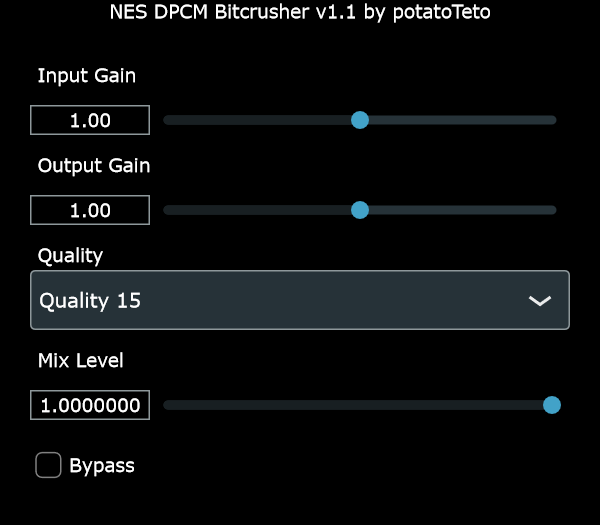
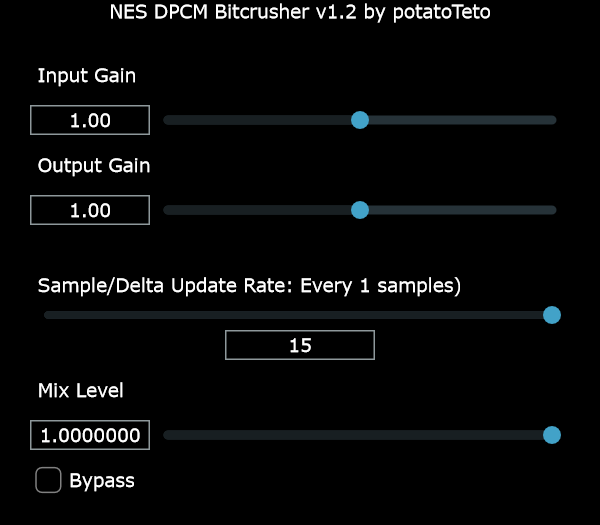
update: Quality renamed to Sample/Delta Update Rate and changed to a slider

diff --git a/Source/PluginEditor.cpp b/Source/PluginEditor.cpp
@@ -7,8 +7,8 @@ DPCMBitcrusherAudioProcessorEditor::DPCMBitcrusherAudioProcessorEditor(DPCMBitcr
         apvts, "inputGain", _inputGainSlider);
     _outputGainAttachment = std::make_unique<juce::AudioProcessorValueTreeState::SliderAttachment>(
         apvts, "gain", _outputGainSlider);
-    _qualityAttachment = std::make_unique<juce::AudioProcessorValueTreeState::ComboBoxAttachment>(
-        apvts, "quality", _qualityComboBox);
+    _sampleUpdateRateAttachment = std::make_unique<juce::AudioProcessorValueTreeState::SliderAttachment>(
+        apvts, "sampleUpdateRate", _sampleUpdateRateSlider);
     _bypassAttachment = std::make_unique<juce::AudioProcessorValueTreeState::ButtonAttachment>(
         apvts, "bypass", _bypassToggle);
 
@@ -26,20 +26,28 @@ DPCMBitcrusherAudioProcessorEditor::DPCMBitcrusherAudioProcessorEditor(DPCMBitcr
     _mixLabel.setText("Mix Level", juce::dontSendNotification);
     addAndMakeVisible(_mixLabel);
 
-    // Add ComboBox IDs 0..15 to exactly match quality parameter values
-    for (int i = 0; i <= 15; ++i)
-        _qualityComboBox.addItem("Quality " + juce::String(i), i + 1);
+    // Add sampleUpdateRate slider that snaps to integers
+    _sampleUpdateRateSlider.setSliderStyle(juce::Slider::LinearHorizontal);
+    _sampleUpdateRateSlider.setTextBoxStyle(juce::Slider::TextBoxBelow, false, 100, 20);
+    _sampleUpdateRateSlider.setRange(0, 15, 1); // Snap to integers
+    _sampleUpdateRateSlider.setValue(15); // Default value
+    _sampleUpdateRateSlider.setNumDecimalPlacesToDisplay(0);
 
-    // Create attachment (syncs ComboBox with parameter)
-    _qualityAttachment = std::make_unique<juce::AudioProcessorValueTreeState::ComboBoxAttachment>(
-        apvts, "quality", _qualityComboBox);
-    
-    // Force ComboBox refresh (optional but can fix display issues)
-    _qualityComboBox.setSelectedId(_qualityComboBox.getSelectedId(), juce::dontSendNotification);
+    addAndMakeVisible(_sampleUpdateRateSlider);
+    _sampleUpdateRateLabel.setText("Sample/Delta Update Rate", juce::dontSendNotification);
+    addAndMakeVisible(_sampleUpdateRateLabel);
 
-    addAndMakeVisible(_qualityComboBox);
-    _qualityLabel.setText("Quality", juce::dontSendNotification);
-    addAndMakeVisible(_qualityLabel);
+    _sampleUpdateRateAttachment = std::make_unique<juce::AudioProcessorValueTreeState::SliderAttachment>(
+        apvts, "sampleUpdateRate", _sampleUpdateRateSlider);
+
+    // Dynamically update the label with stepInterval
+    _sampleUpdateRateSlider.onValueChange = [this]()
+    {
+        int q = static_cast<int>(_sampleUpdateRateSlider.getValue());
+        int stepInterval = 1 << (15 - q);
+        _sampleUpdateRateLabel.setText("Sample/Delta Update Rate: Every " + juce::String(stepInterval) + " samples)", juce::dontSendNotification);
+    };
+    _sampleUpdateRateSlider.onValueChange(); // Trigger once to initialize
 
     addAndMakeVisible(_bypassToggle);
     _bypassToggle.setButtonText("Bypass");
@@ -54,7 +62,7 @@ void DPCMBitcrusherAudioProcessorEditor::paint(juce::Graphics& g)
     g.fillAll(juce::Colours::black);
     g.setColour(juce::Colours::white);
     g.setFont(15.0f);
-    g.drawFittedText("NES DPCM Bitcrusher v1.1 by potatoTeto", getLocalBounds(), juce::Justification::centredTop, 1);
+    g.drawFittedText("NES DPCM Bitcrusher v1.2 by potatoTeto", getLocalBounds(), juce::Justification::centredTop, 1);
 }
 
 void DPCMBitcrusherAudioProcessorEditor::resized()
@@ -70,9 +78,11 @@ void DPCMBitcrusherAudioProcessorEditor::resized()
 
     _outputGainLabel.setBounds(area.removeFromTop(20));
     _outputGainSlider.setBounds(area.removeFromTop(rowHeight));
-
-    _qualityLabel.setBounds(area.removeFromTop(20));
-    _qualityComboBox.setBounds(area.removeFromTop(rowHeight));
+    
+    area.removeFromTop(20);
+    
+    _sampleUpdateRateLabel.setBounds(area.removeFromTop(20));
+    _sampleUpdateRateSlider.setBounds(area.removeFromTop(rowHeight));
 
     area.removeFromTop(spacing);
     _mixLabel.setBounds(area.removeFromTop(20));

diff --git a/Source/PluginProcessor.cpp b/Source/PluginProcessor.cpp
@@ -48,11 +48,11 @@ void DPCMBitcrusherAudioProcessor::processBlock(juce::AudioBuffer<float>& buffer
     float inputGain = apvts.getRawParameterValue("inputGain")->load();
     float outputGain = apvts.getRawParameterValue("gain")->load();
     float mix = apvts.getRawParameterValue("mix")->load();  // 0 = dry, 1 = wet
-    int quality = static_cast<int>(apvts.getRawParameterValue("quality")->load());
+    int sampleUpdateRate = static_cast<int>(apvts.getRawParameterValue("sampleUpdateRate")->load());
 
     const int maxDeltaSteps = 64;
     const float stepSize = 1.0f / static_cast<float>(maxDeltaSteps);
-    const int stepInterval = 1 << (15 - quality);
+    const int stepInterval = 1 << (15 - sampleUpdateRate);
     const float deadZone = stepSize * 0.5f;
 
     // --- Store dry signal ---
@@ -135,7 +135,7 @@ juce::AudioProcessorValueTreeState::ParameterLayout DPCMBitcrusherAudioProcessor
 
     params.push_back(std::make_unique<juce::AudioParameterFloat>("inputGain", "Input Gain", 0.0f, 2.0f, 1.0f));
     params.push_back(std::make_unique<juce::AudioParameterFloat>("gain", "Output Gain", 0.0f, 2.0f, 1.0f));
-    params.push_back(std::make_unique<juce::AudioParameterInt>("quality", "Quality", 0, 15, 15));
+    params.push_back(std::make_unique<juce::AudioParameterInt>("sampleUpdateRate", "Sample Update Rate", 0, 15, 15));
     params.push_back(std::make_unique<juce::AudioParameterBool>("bypass", "Bypass", false));
     params.push_back (std::make_unique<juce::AudioParameterFloat>(
         "mix", "Mix",

diff --git a/Source/PluginEditor.h b/Source/PluginEditor.h
@@ -22,8 +22,8 @@ private:
     juce::Slider _outputGainSlider;
     juce::Label _outputGainLabel;
 
-    juce::ComboBox _qualityComboBox;
-    juce::Label _qualityLabel;
+    juce::Slider _sampleUpdateRateSlider;
+    juce::Label _sampleUpdateRateLabel;
 
     juce::ToggleButton _bypassToggle;
 
@@ -32,7 +32,7 @@ private:
 
     std::unique_ptr<juce::AudioProcessorValueTreeState::SliderAttachment> _inputGainAttachment;
     std::unique_ptr<juce::AudioProcessorValueTreeState::SliderAttachment> _outputGainAttachment;
-    std::unique_ptr<juce::AudioProcessorValueTreeState::ComboBoxAttachment> _qualityAttachment;
+    std::unique_ptr<juce::AudioProcessorValueTreeState::SliderAttachment> _sampleUpdateRateAttachment;
     std::unique_ptr<juce::AudioProcessorValueTreeState::ButtonAttachment> _bypassAttachment;
     std::unique_ptr<juce::AudioProcessorValueTreeState::SliderAttachment> _mixAttachment;
 
